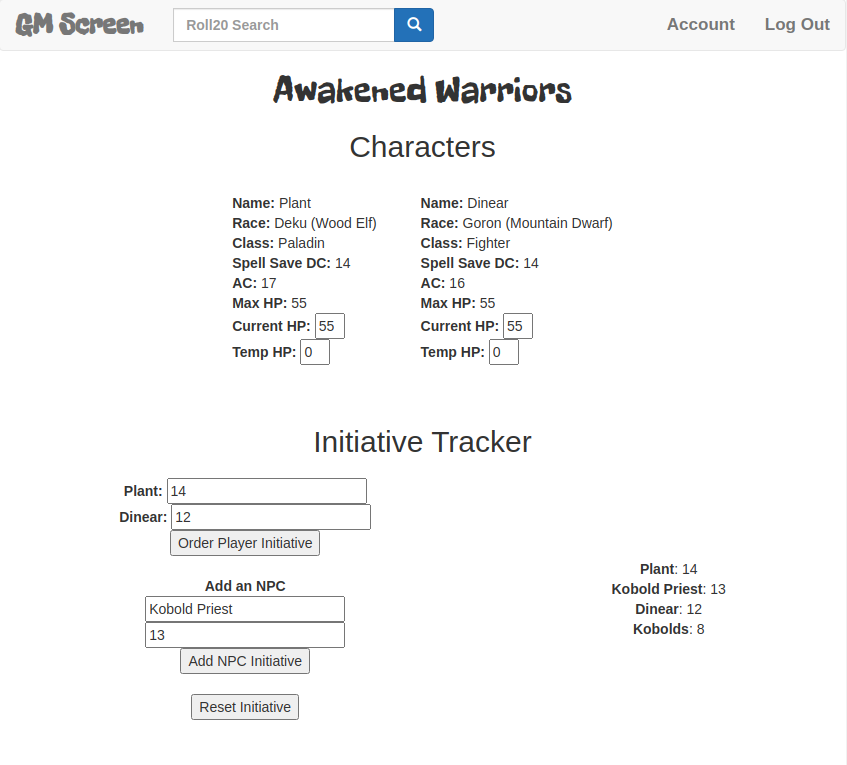
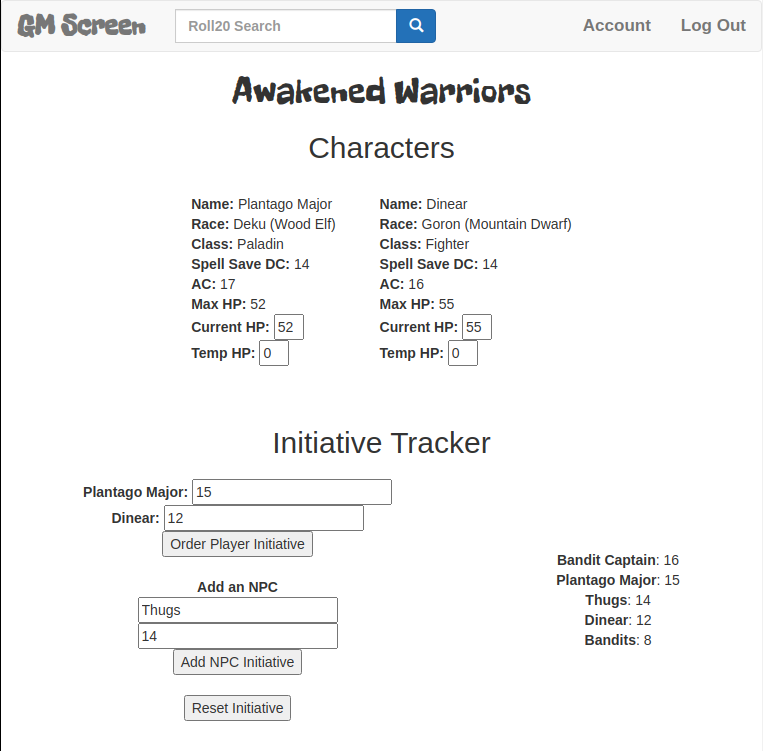
updated readme

diff --git a/README.md b/README.md
@@ -1,6 +1,6 @@
 # GM Screen
-GM Screen is a simple website for a Game Master (GM) to keep track of Player Character (PC) stats in multiple Dungeons & Dragons 5e campaigns. It features a dynamic initiative tracker to quickly order PCs and monsters in combat.
+GM Screen is a simple website for a Game Master (GM) to keep track of Player Character (PC) stats in multiple Dungeons & Dragons 5e campaigns. Quickly add new PCs to a campaign or edit existing PCs as they level up. It features a dynamic initiative tracker to quickly order PCs and monsters in combat.
 
-This tool was made as my final project for Harvard's free online computer science course, CS50.
+This tool was made as my final project for Harvard's free online computer science course, CS50. See the screen shot from a campaign I am currently playing.
 
 ![Screen shot](screenshot.png)
